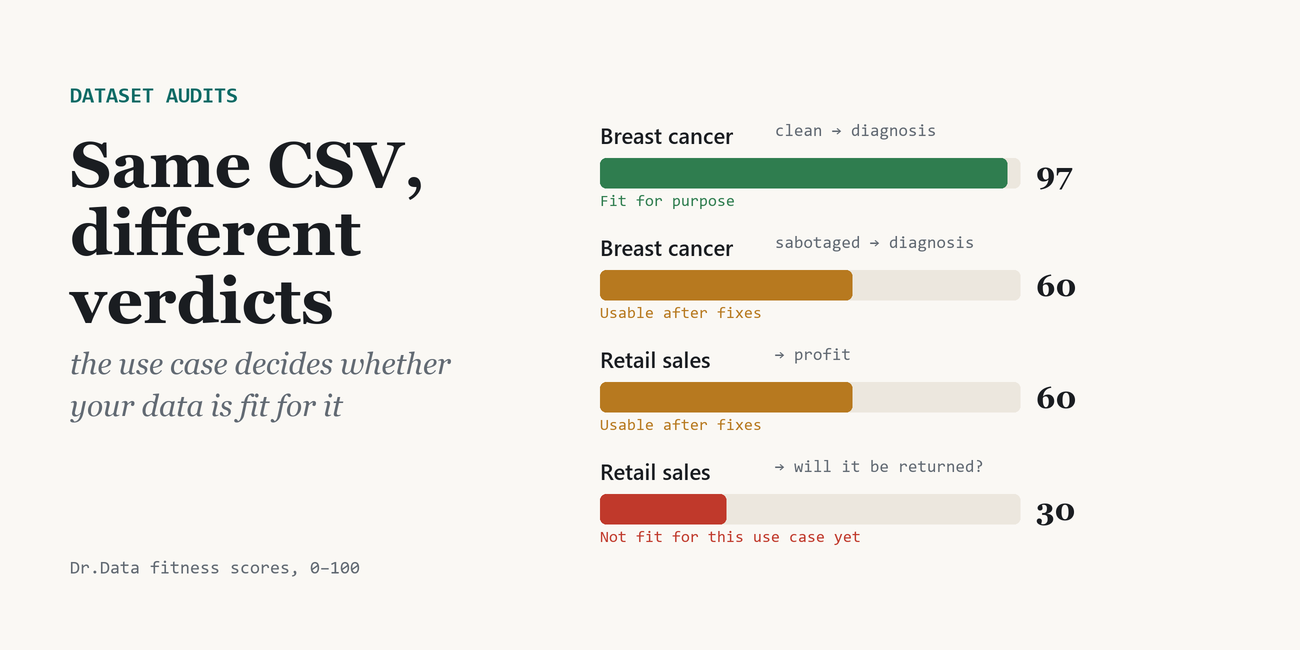
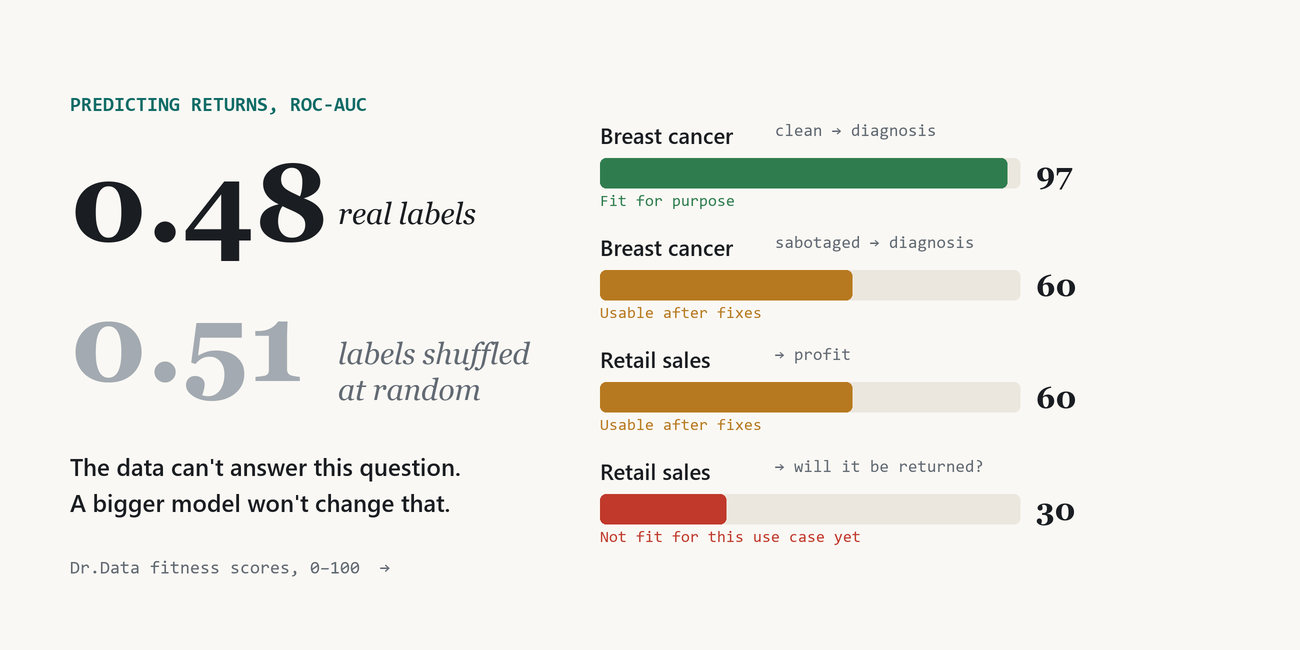
Dr.Data post: new title and cover without repeated headline

diff --git a/_posts/2026-11-10-same-csv-different-verdicts.md b/_posts/2026-11-10-same-csv-different-verdicts.md
@@ -1,17 +1,17 @@
 ---
 layout: post
-title: "Same CSV, different verdicts: checking whether your data can do the job before you train"
+title: "No model can fix data that doesn't fit the question"
 description: "I built Dr.Data, a pre-training audit for tabular data. One retail table scores 60 for predicting profit and 30 for predicting returns. A sabotaged medical dataset gives up every planted defect. The question it answers is not 'is this data clean?' but 'is this data fit for this use case?'"
 tag: Data quality
 image: /assets/img/drdata/cover.png
-image_alt: "Dr.Data fitness scores for four audits: breast cancer clean 97, sabotaged 60, retail profit 60, retail returns 30"
+image_alt: "Predicting returns: ROC-AUC 0.48 with real labels vs 0.51 with shuffled labels; Dr.Data fitness scores: breast cancer clean 97, sabotaged 60, retail profit 60, retail returns 30"
 ---
 
 Most ML projects start by training a model. When the score is bad, the usual next step is a bigger model, more tuning, more epochs. Sometimes the problem is not the model at all: **the data can't support the question being asked.**
 
 I wanted a tool that answers that question *before* training. So I built **[Dr.Data](https://github.com/Zephyr4772/Dr.Data)**: you give it a table and a use case (the target, what a mistake costs, when you'll be predicting, which columns you won't have at that moment), and it tells you whether the data is fit for that use case, and if it is, how to train on it.
 
-The point of the title: **the same table can be fine for one use case and useless for another.**
+The catch is that fitness depends on the question: **the same table can be fine for one use case and useless for another.**
 
 **The short version:**
 
